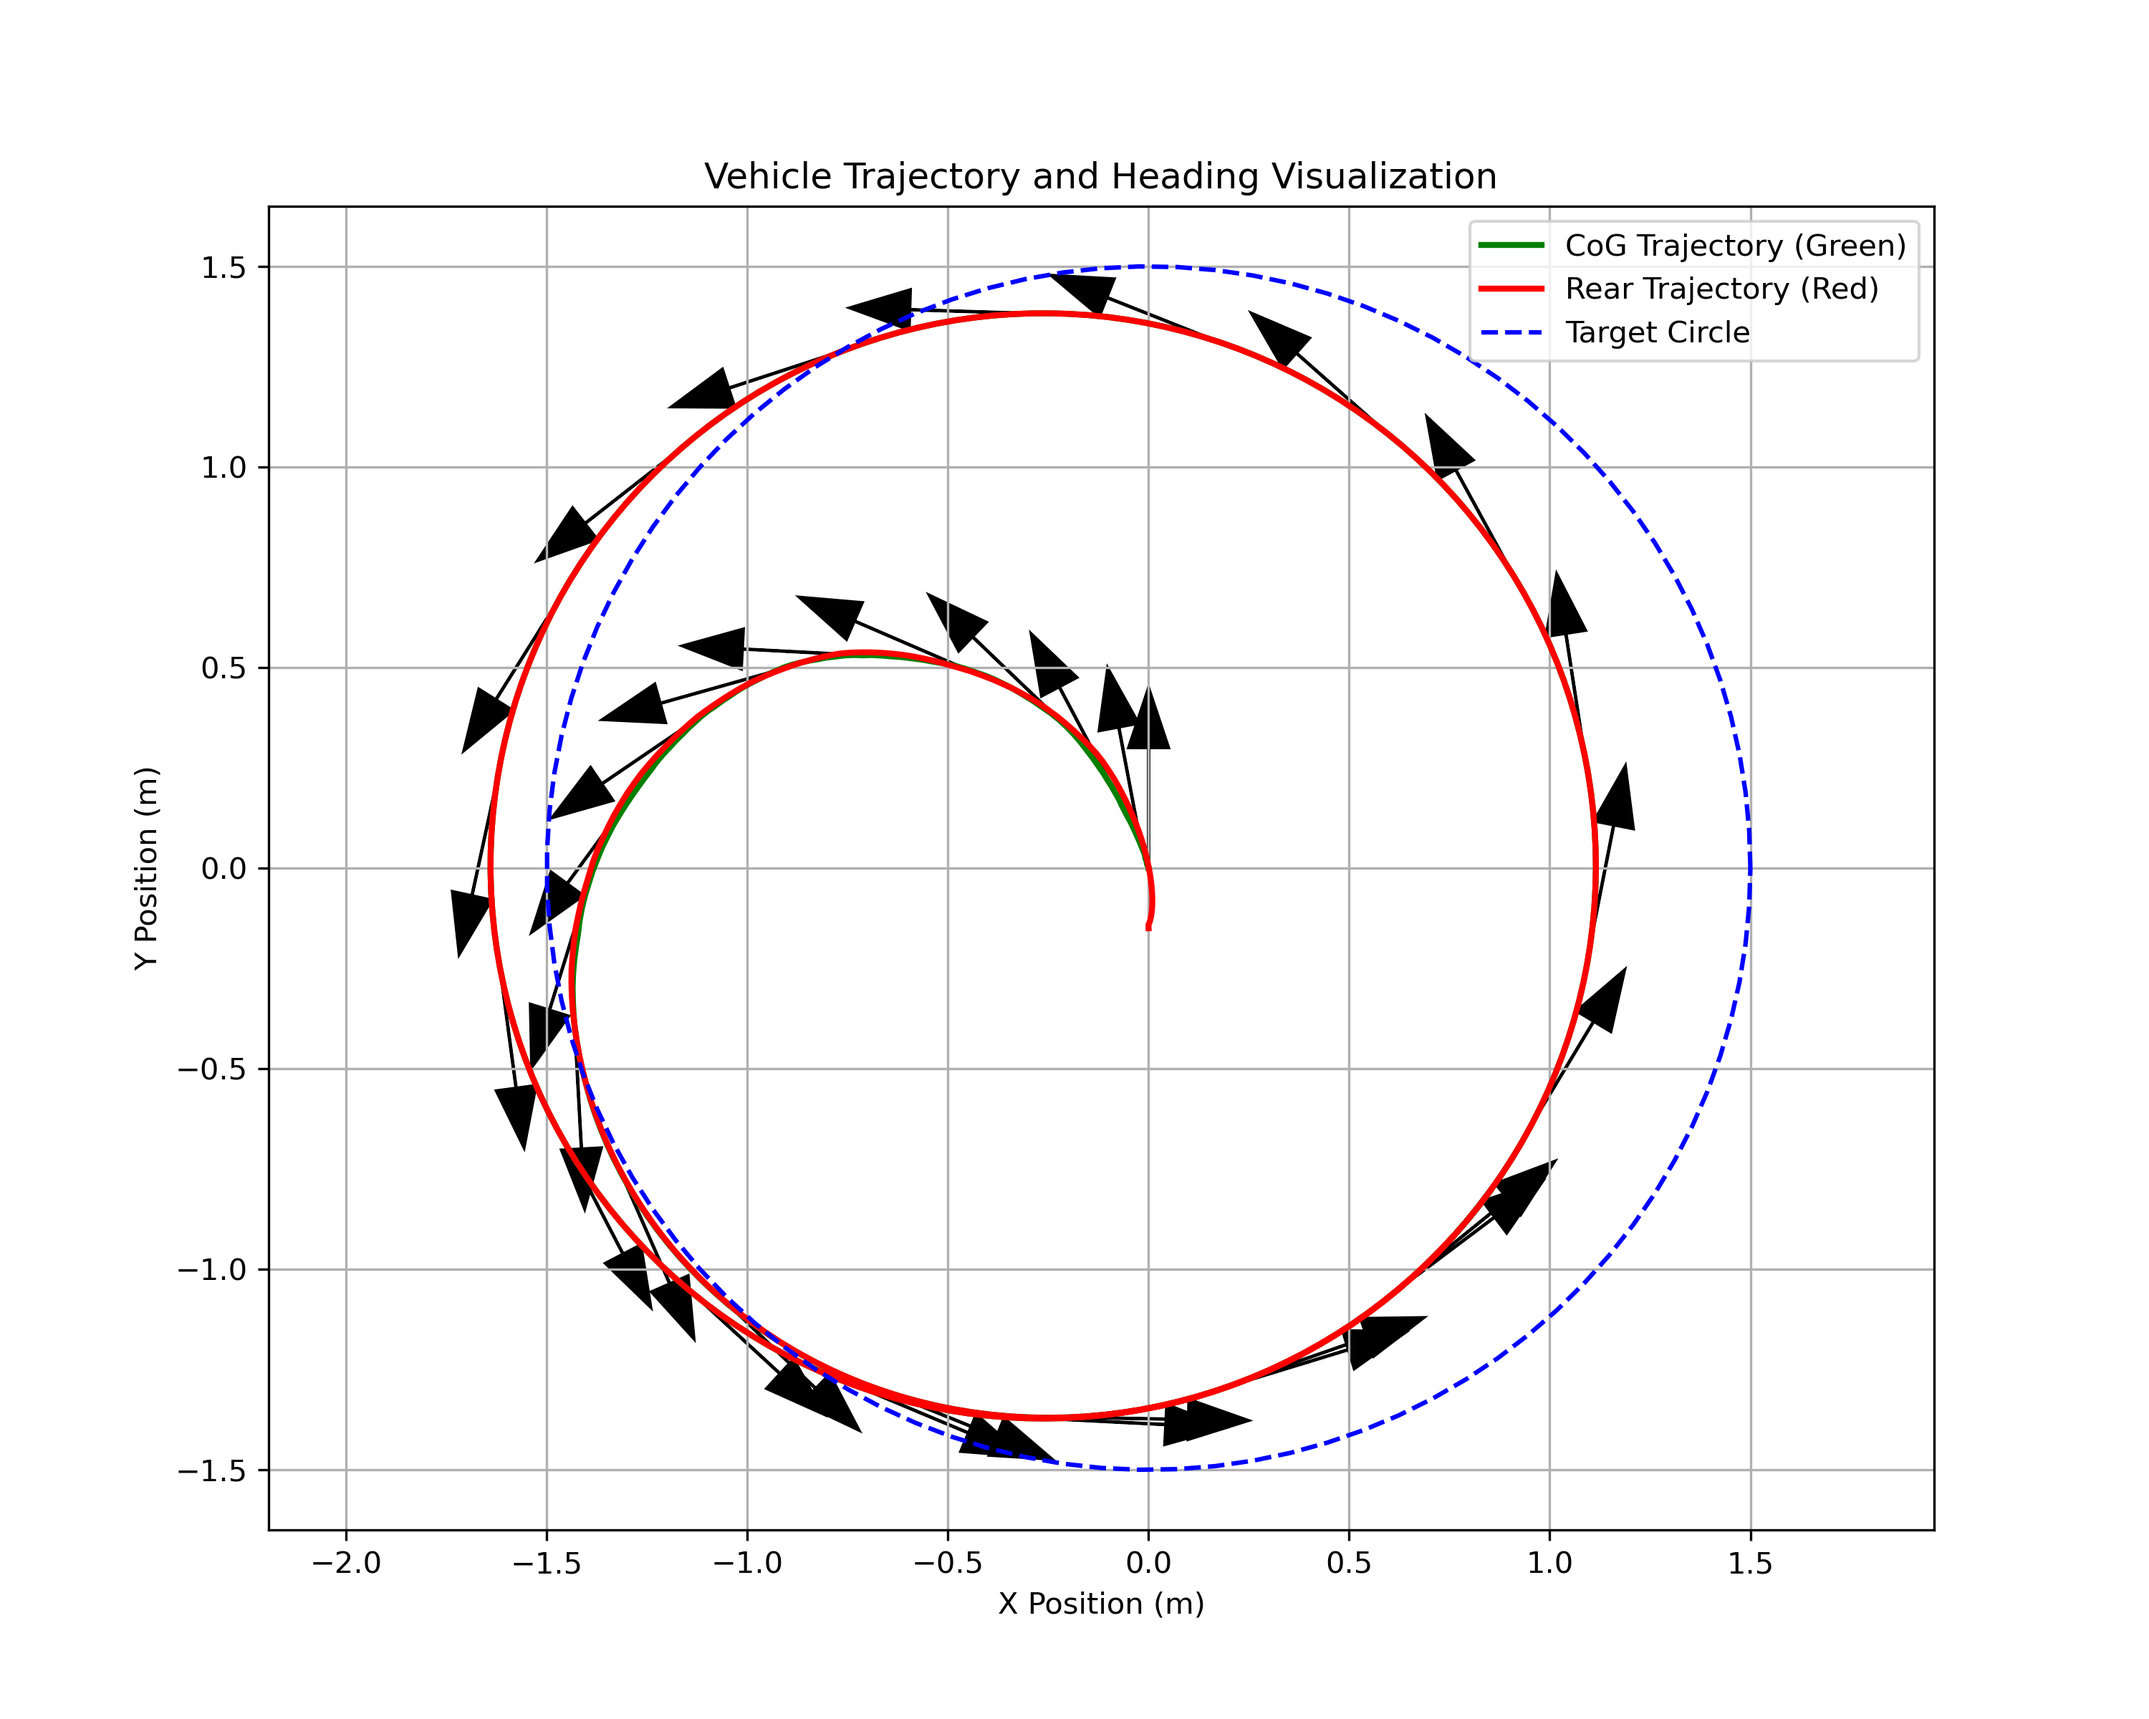
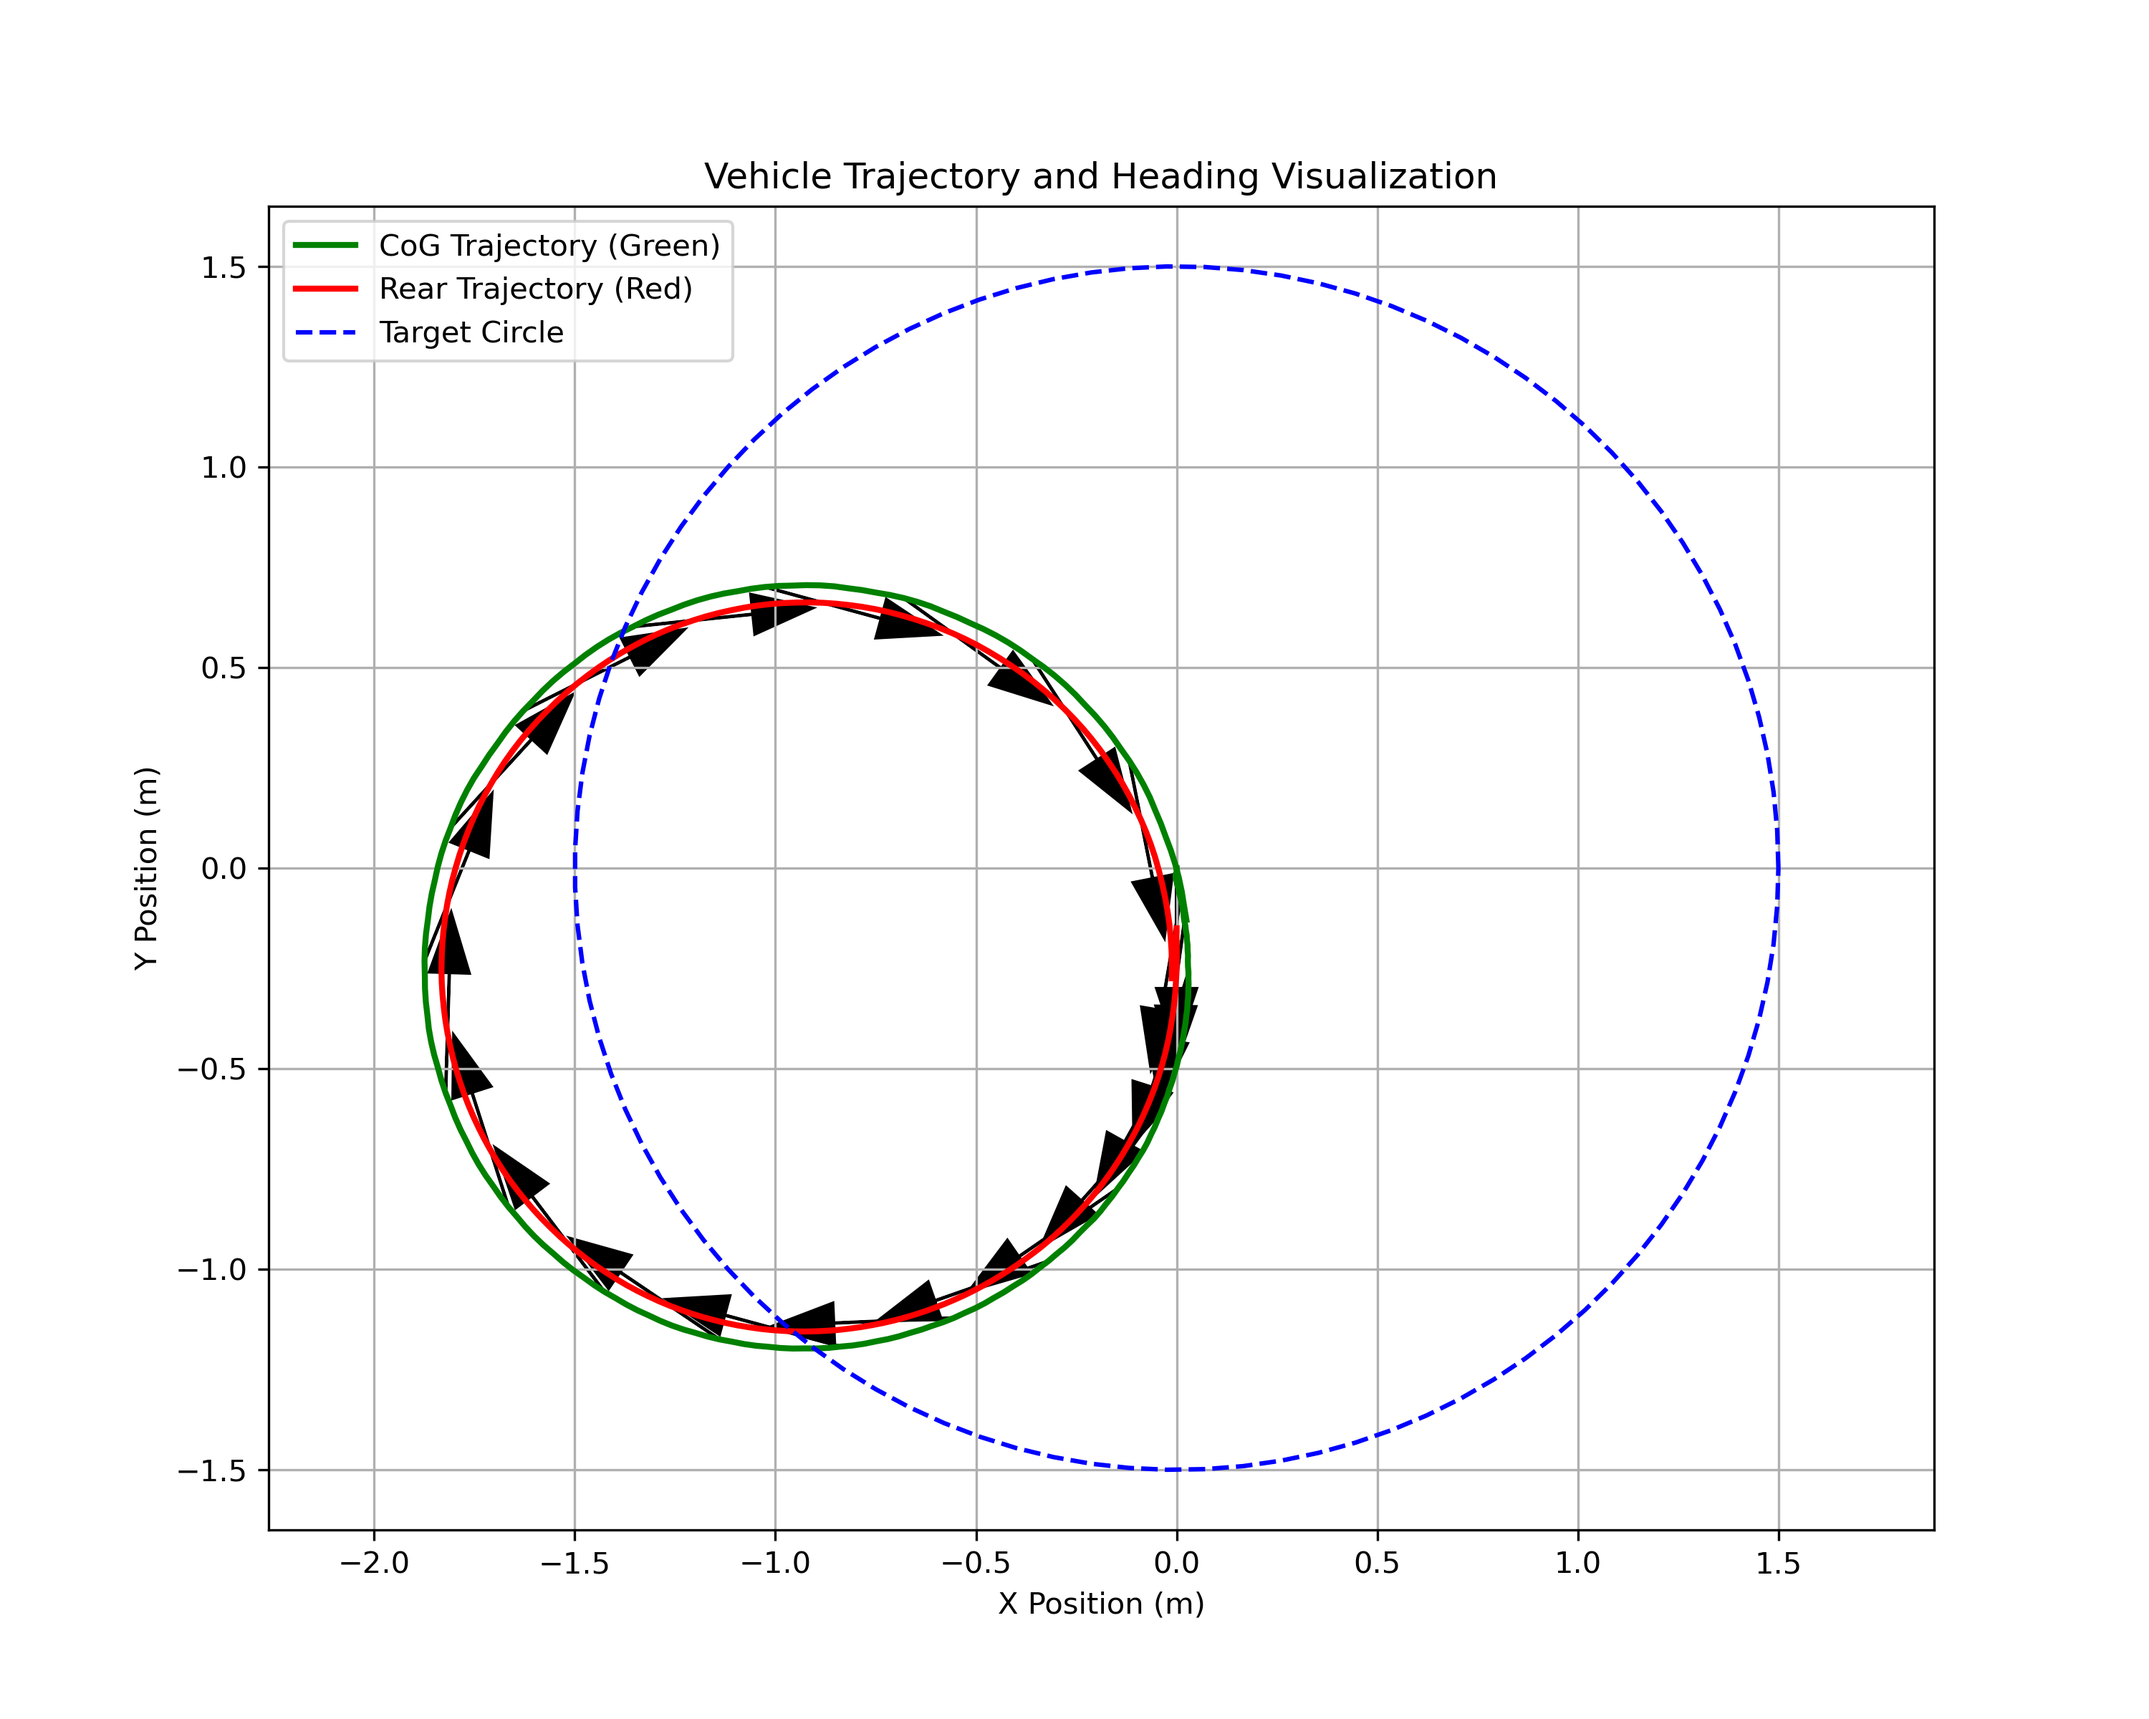
update static plot and u_initial

diff --git a/nmpc_controller/scripts/loco_nmpc.py b/nmpc_controller/scripts/loco_nmpc.py
@@ -262,36 +262,36 @@ velocity_texts = [
 ani = FuncAnimation(fig, update_plot, frames=500, interval=dt * 1000)
 plt.show()
 
-# # Static plot of the trajectory and heading
-# plt.figure(figsize=(10, 8))
+# Static plot of the trajectory and heading
+plt.figure(figsize=(10, 8))
 
-# # Plot the trajectories
-# plt.plot(traj_cog_x, traj_cog_y, label="CoG Trajectory (Green)", color="green", linewidth=2)
-# plt.plot(traj_r_x, traj_r_y, label="Rear Trajectory (Red)", color="red", linewidth=2)
+# Plot the trajectories
+plt.plot(traj_cog_x, traj_cog_y, label="CoG Trajectory (Green)", color="green", linewidth=2)
+plt.plot(traj_r_x, traj_r_y, label="Rear Trajectory (Red)", color="red", linewidth=2)
 
-# # Add the heading arrows
-# for i in range(0, len(traj_cog_x), 10):  # Plot every 10th point for clarity
-#     x, y = traj_cog_x[i], traj_cog_y[i]
-#     yaw = wrap_to_pi(np.arctan2(traj_cog_y[i] - traj_r_y[i], traj_cog_x[i] - traj_r_x[i]))  # Corrected yaw direction
-#     dx = 0.3 * np.cos(yaw)  # Scale arrows
-#     dy = 0.3 * np.sin(yaw)
-#     plt.arrow(x, y, dx, dy, head_width=0.1, head_length=0.15, fc="black", ec="black")
+# Add the heading arrows
+for i in range(0, len(traj_cog_x), 10):  # Plot every 10th point for clarity
+    x, y = traj_cog_x[i], traj_cog_y[i]
+    yaw = wrap_to_pi(np.arctan2(traj_cog_y[i] - traj_r_y[i], traj_cog_x[i] - traj_r_x[i]))  # Corrected yaw direction
+    dx = 0.3 * np.cos(yaw)  # Scale arrows
+    dy = 0.3 * np.sin(yaw)
+    plt.arrow(x, y, dx, dy, head_width=0.1, head_length=0.15, fc="black", ec="black")
 
-# # Add circle for the target trajectory
-# theta = np.linspace(0, 2 * np.pi, 100)
-# circle_x = circle_radius * np.cos(theta)
-# circle_y = circle_radius * np.sin(theta)
-# plt.plot(circle_x, circle_y, '--', label='Target Circle', color="blue", linewidth=1.5)
+# Add circle for the target trajectory
+theta = np.linspace(0, 2 * np.pi, 100)
+circle_x = circle_radius * np.cos(theta)
+circle_y = circle_radius * np.sin(theta)
+plt.plot(circle_x, circle_y, '--', label='Target Circle', color="blue", linewidth=1.5)
 
-# # Plot settings
-# plt.xlabel("X Position (m)")
-# plt.ylabel("Y Position (m)")
-# plt.title("Vehicle Trajectory and Heading Visualization")
-# plt.axis("equal")
-# plt.legend()
-# plt.grid()
+# Plot settings
+plt.xlabel("X Position (m)")
+plt.ylabel("Y Position (m)")
+plt.title("Vehicle Trajectory and Heading Visualization")
+plt.axis("equal")
+plt.legend()
+plt.grid()
 
-# # Save the plot as an image
-# # plt.savefig("trajectory_and_heading.png", dpi=300)
-# plt.show()
+# Save the plot as an image
+# plt.savefig("trajectory_and_heading.png", dpi=300)
+plt.show()
 
